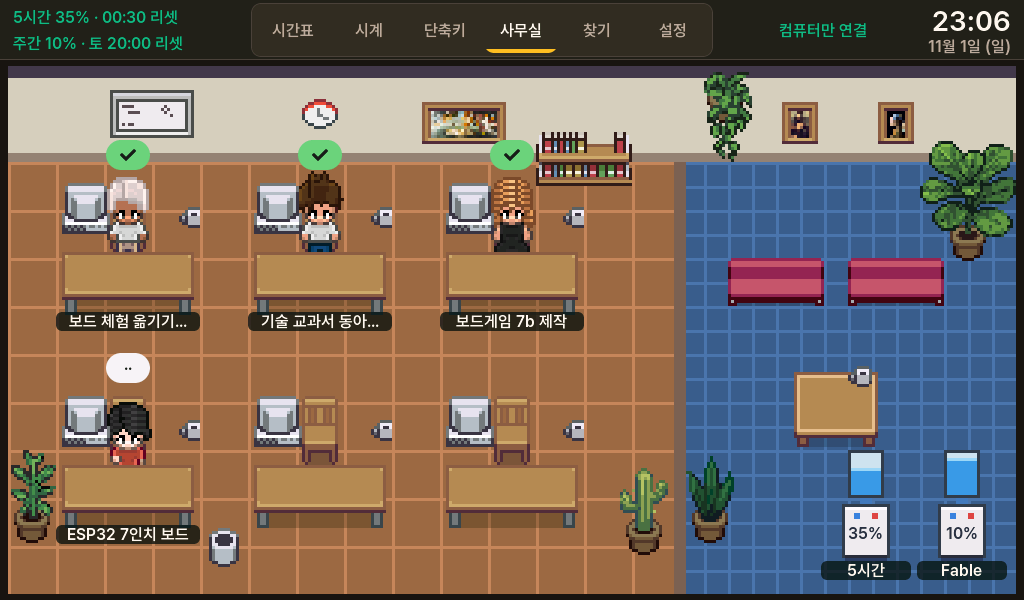
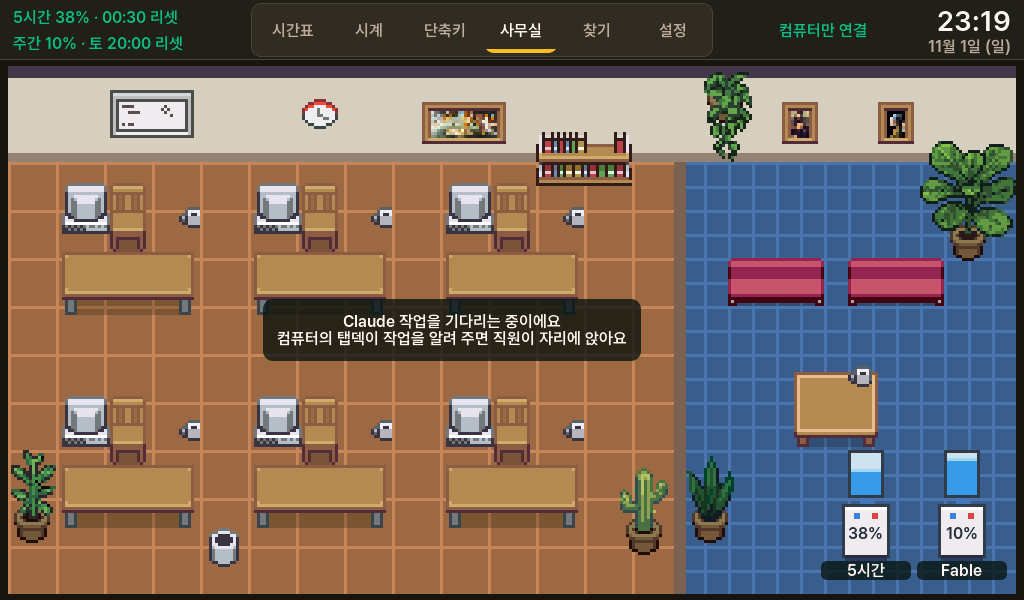
사무실 정수기: 오른쪽 이름표에 주간 한도 모델 이름(예: Fable)

diff --git a/board-kit/7inch/firmware/src/main.cpp b/board-kit/7inch/firmware/src/main.cpp
@@ -3451,6 +3451,7 @@ static void offUse() {
     setTextIf(s_offPct[i], b);
     setTextColIf(s_offPct[i], has && P[i] >= 90 ? 0xD03030 : 0x2A3240);
   }
+  setTextIf(s_offCNm[1], s_useName[0] ? s_useName : "주간");   // 팀 요금제는 모델별 주간 한도(예: Fable) — 그 이름을 보인다
 }
 // 0.45초마다: 타자·읽기 움직임, 일하는 중 말풍선의 점. 탭덱이 30초 넘게 조용하면 비운다
 static void offTimer(lv_timer_t *) {

diff --git a/board-kit/7inch/README.md b/board-kit/7inch/README.md
@@ -73,7 +73,7 @@ board-kit\
 - 탭덱은 이 컴퓨터의 Claude 기록 파일로 상태만 가려내고, 보드에는 제목과 상태만 보냅니다.
 - 노란 `?` 는 고치기(Edit·Write) 허락을 기다릴 때만 정확합니다. 오래 걸리는 명령은 허락 대기와 구별하지 못해 `···` 로 보입니다.
 - 사무실 화면은 '시계로 전환' 시간이 지나도 그대로 둡니다.
-- 쉼터 아래 정수기 2대는 Claude 사용량입니다(왼쪽 5시간 · 오른쪽 주간). 많이 쓸수록 물이 줄고, 90% 넘으면 숫자가 빨개집니다. 탭덱 소식이 없으면 빈 통과 `-`.
+- 쉼터 아래 정수기 2대는 Claude 사용량입니다(왼쪽 5시간 · 오른쪽 주간. 팀 요금제처럼 주간 한도가 모델별이면 그 모델 이름, 예: Fable). 많이 쓸수록 물이 줄고, 90% 넘으면 숫자가 빨개집니다. 탭덱 소식이 없으면 빈 통과 `-`.
 
 ## 이 키트에서 바꾸면 안 되는 것 (화면 흔들림 대책)
 이 보드의 RGB 화면은 메모리(PSRAM)를 와이파이·플래시 쓰기와 나눠 쓰기 때문에 설정을 잘못 건드리면 **화면이 지지직거리거나 옆으로 밀립니다.**
